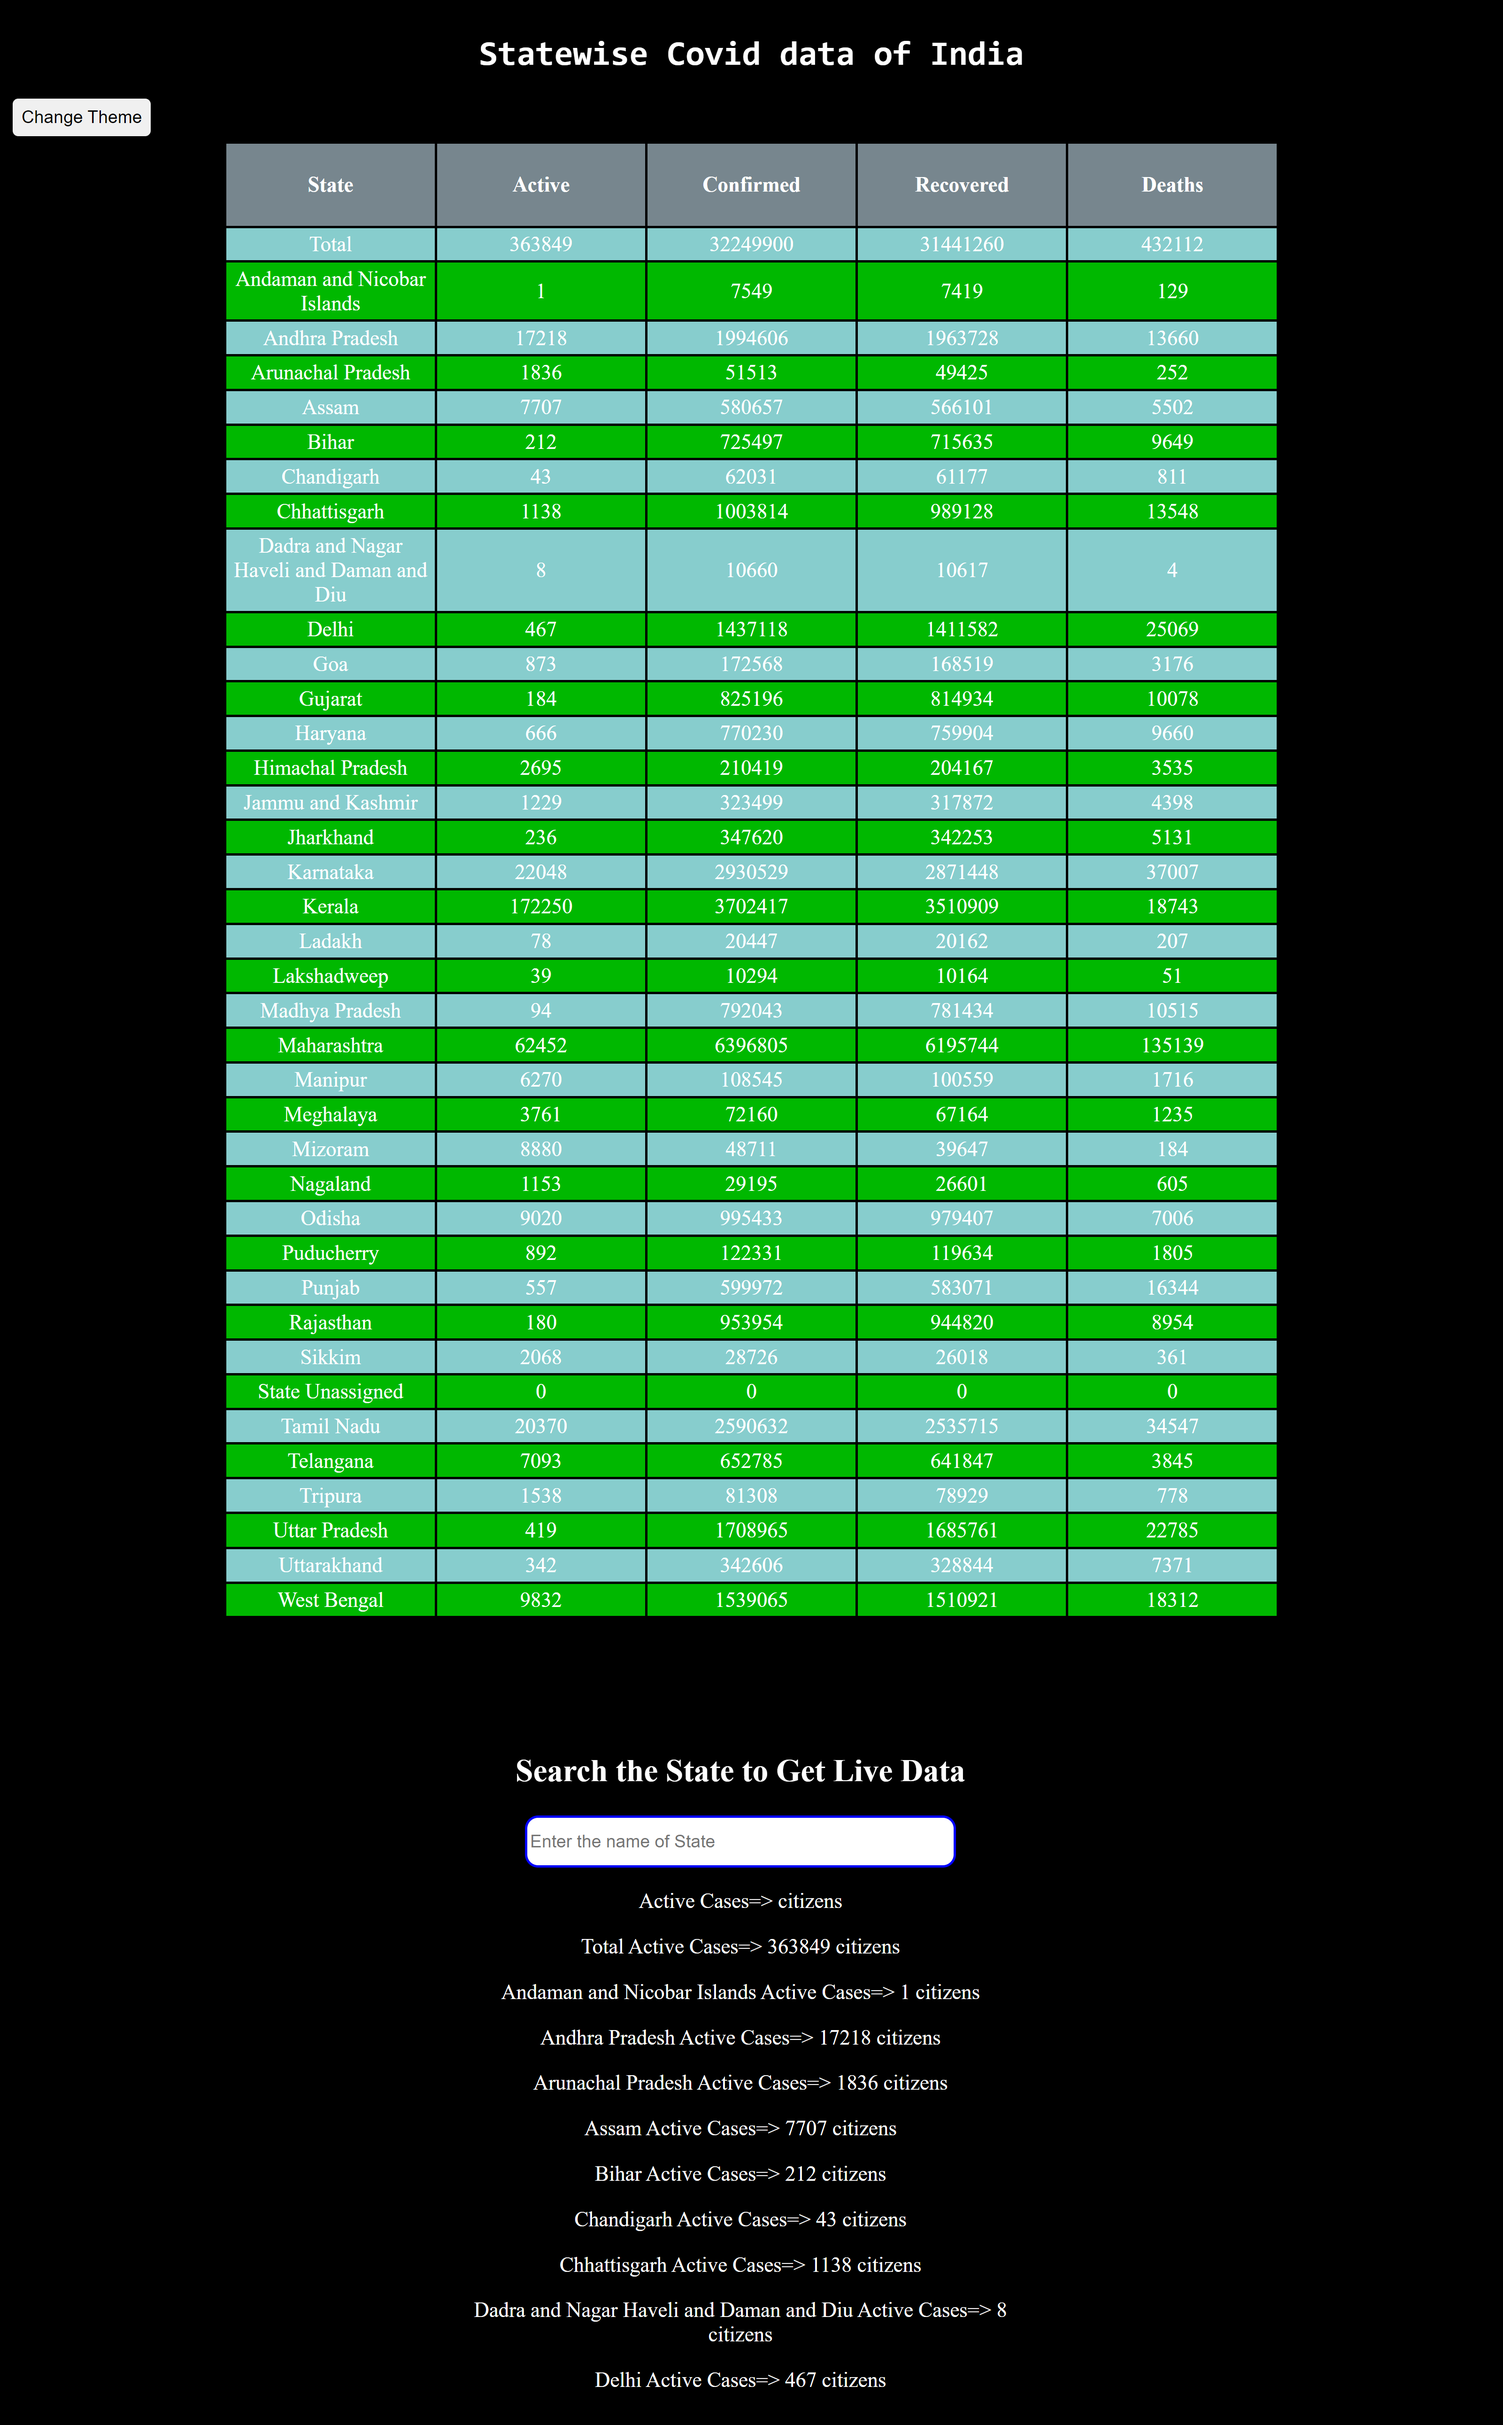
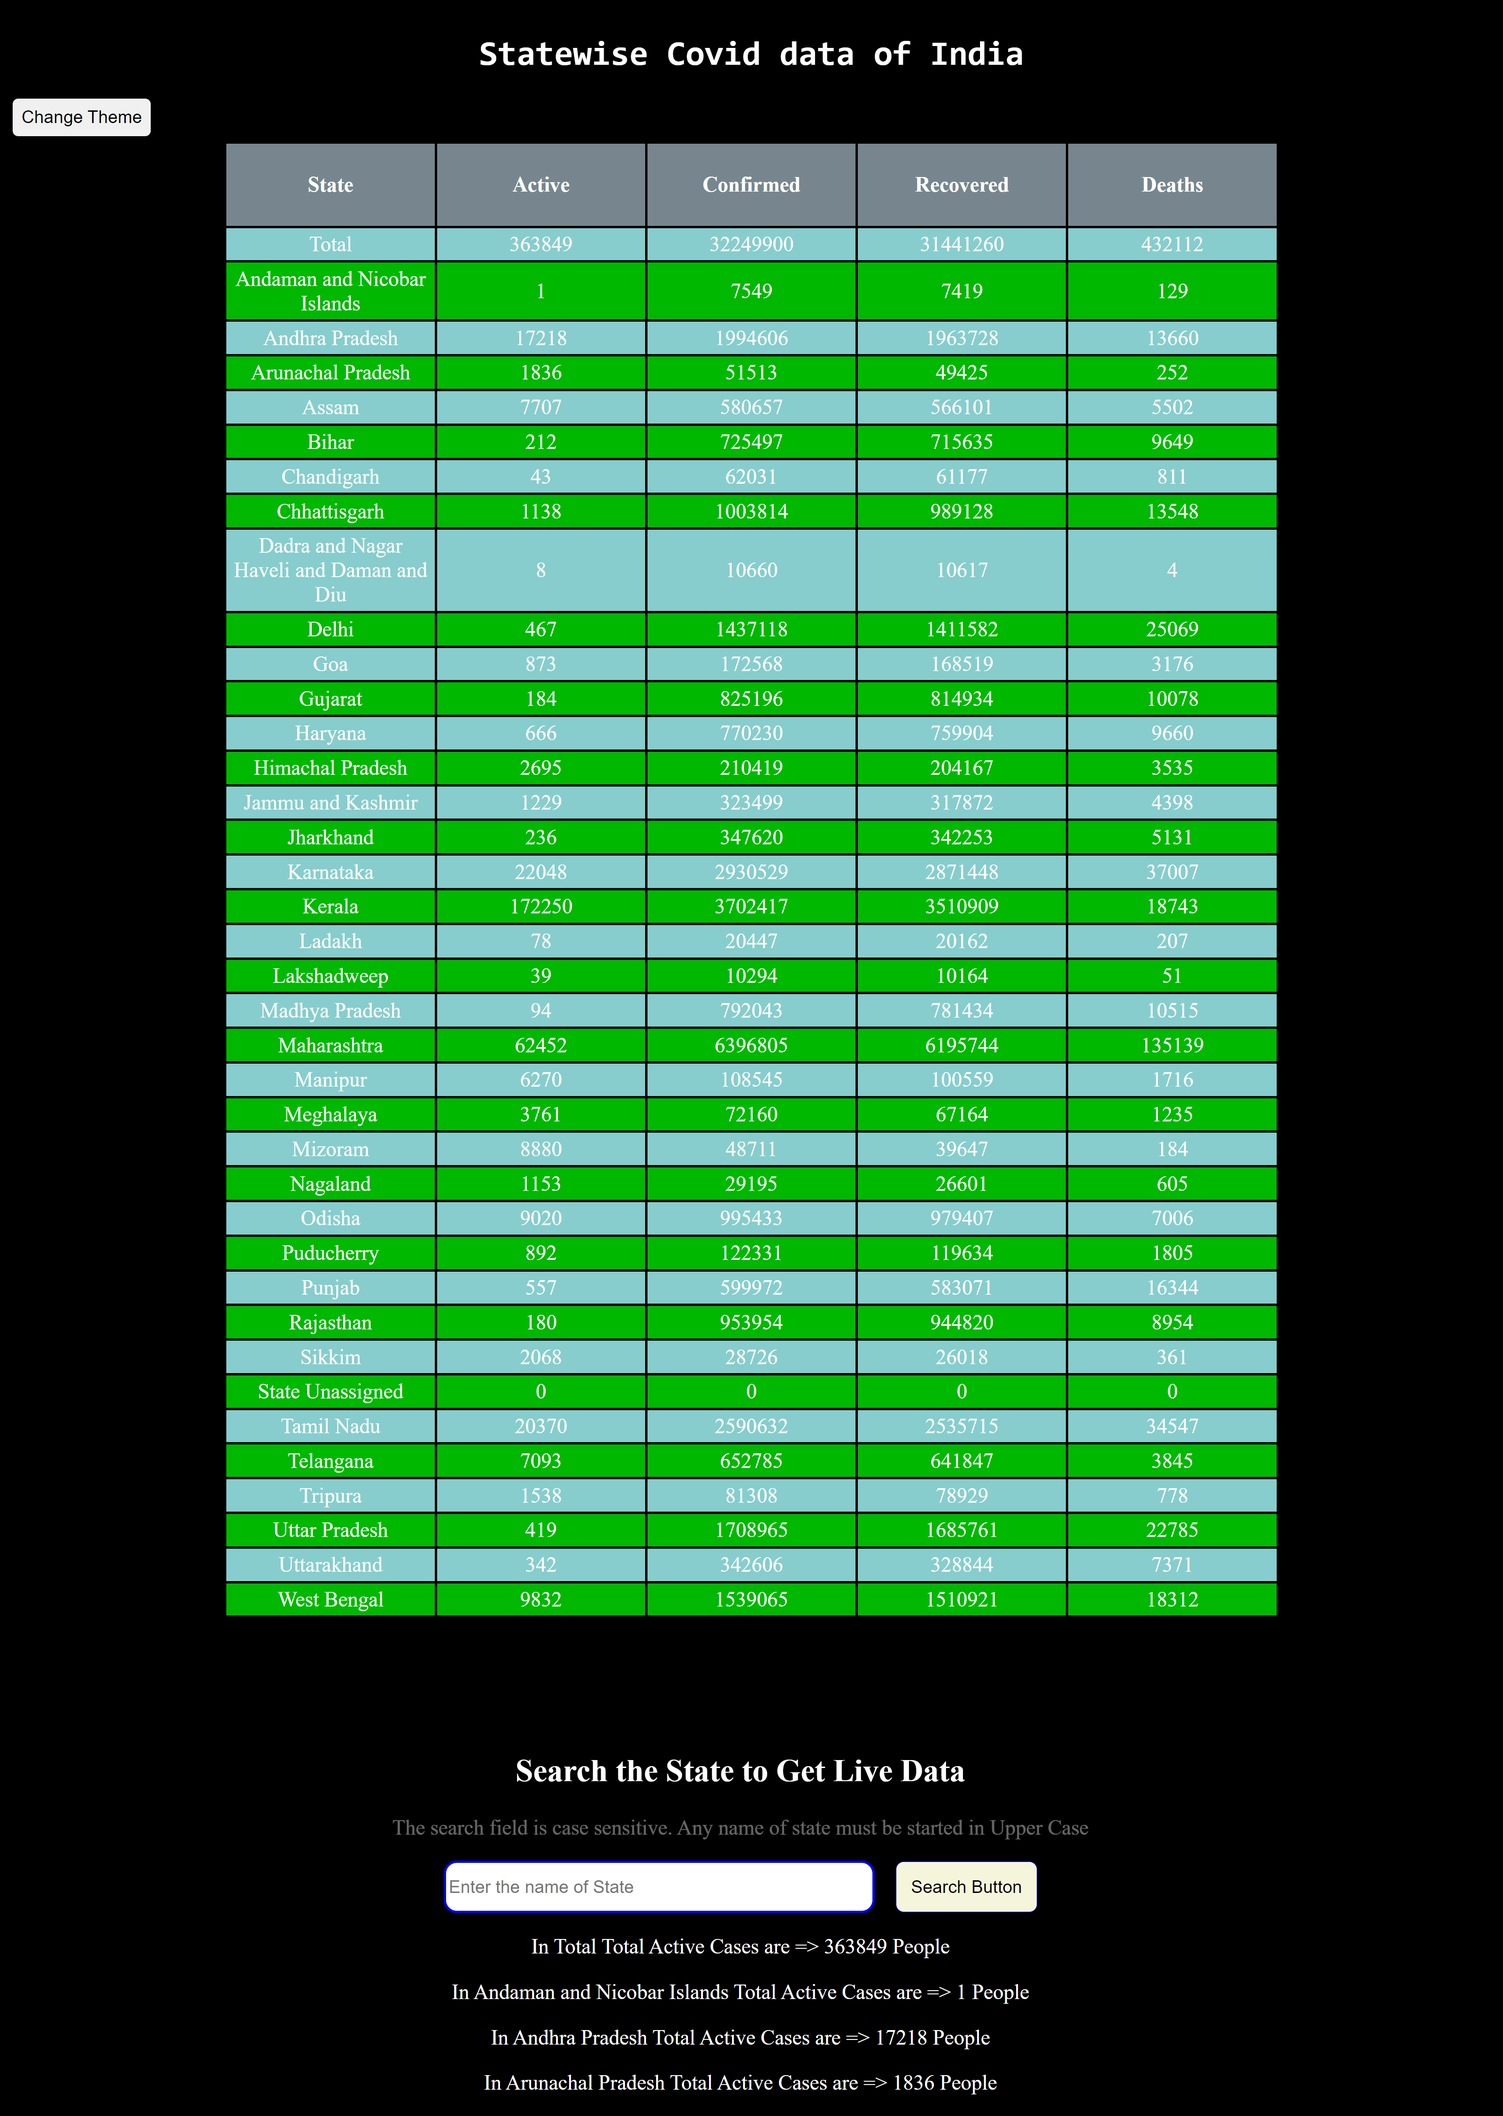
initial Commit

diff --git a/src/Components/CovidApi.jsx b/src/Components/CovidApi.jsx
@@ -13,20 +13,22 @@ export function CovidApi() {
         "https://data.covid19india.org/data.json"
       );
       setData(response.data.statewise);
-      setfilteredData([data, ...response.data.statewise]);
+      // setfilteredData([data, ...response.data.statewise]);
     }
     getData();
   }, []);
 
-  useEffect(() => {
+  let handleSearch = ()=>{
     let searched = data.filter((ser) => {
+      console.log(search,ser.state)
       if (ser.state) {
-        return ser.state.includes(search.toLocaleLowerCase());
+        return ser.state.includes(search);
       }
     });
     setfilteredData(searched);
-  }, [search]);
+  }
 
+ 
   return (
     <>
      
@@ -80,6 +82,8 @@ export function CovidApi() {
       </div>
       <div className="card">
         <h2>Search the State to Get Live Data</h2>
+        
+        <p className="blur">The search field is case sensitive. Any name of state must be started in Upper Case</p>
         <input
         className="input_field"
         placeholder="Enter the name of State"
@@ -88,9 +92,13 @@ export function CovidApi() {
           onChange={(e) => {
             setSearch(e.target.value);
           }}
+         
         />
+         <button className="Search_button" onClick={(e)=>{
+          handleSearch()
+         }}>Search Button</button>
         {filtered.map((filter) => (
-          <p className="para1">{filter.state} Active Cases=> {filter.active} citizens</p>
+            <p className="para1">In {filter.state} Total Active Cases  are  => {filter.active} People</p>
         ))}
       </div>
     </>

diff --git a/src/Components/Theme.css b/src/Components/Theme.css
@@ -4,9 +4,9 @@ body{
     transition: 0.6s;
 }
 .card{
-    width: 40%;
+    width: 80%;
     text-align: center;
-    height:100vh;
+    height:50vh;
     overflow-y: scroll;
     margin: auto;
     margin-top: 3rem;
@@ -16,7 +16,16 @@ body{
 .card::-webkit-scrollbar{
     visibility: hidden;
 }
-
+.blur{
+  opacity: 0.4;
+}
+.Search_button{
+    margin-left:1rem ;
+    padding: 0.7rem;
+    background-color: beige;
+    color: #000;
+    border: 0.4px solid blue;
+    border-radius: 6px;}
 .input_field{
     width: 20rem;
     border: 2px solid blue;
